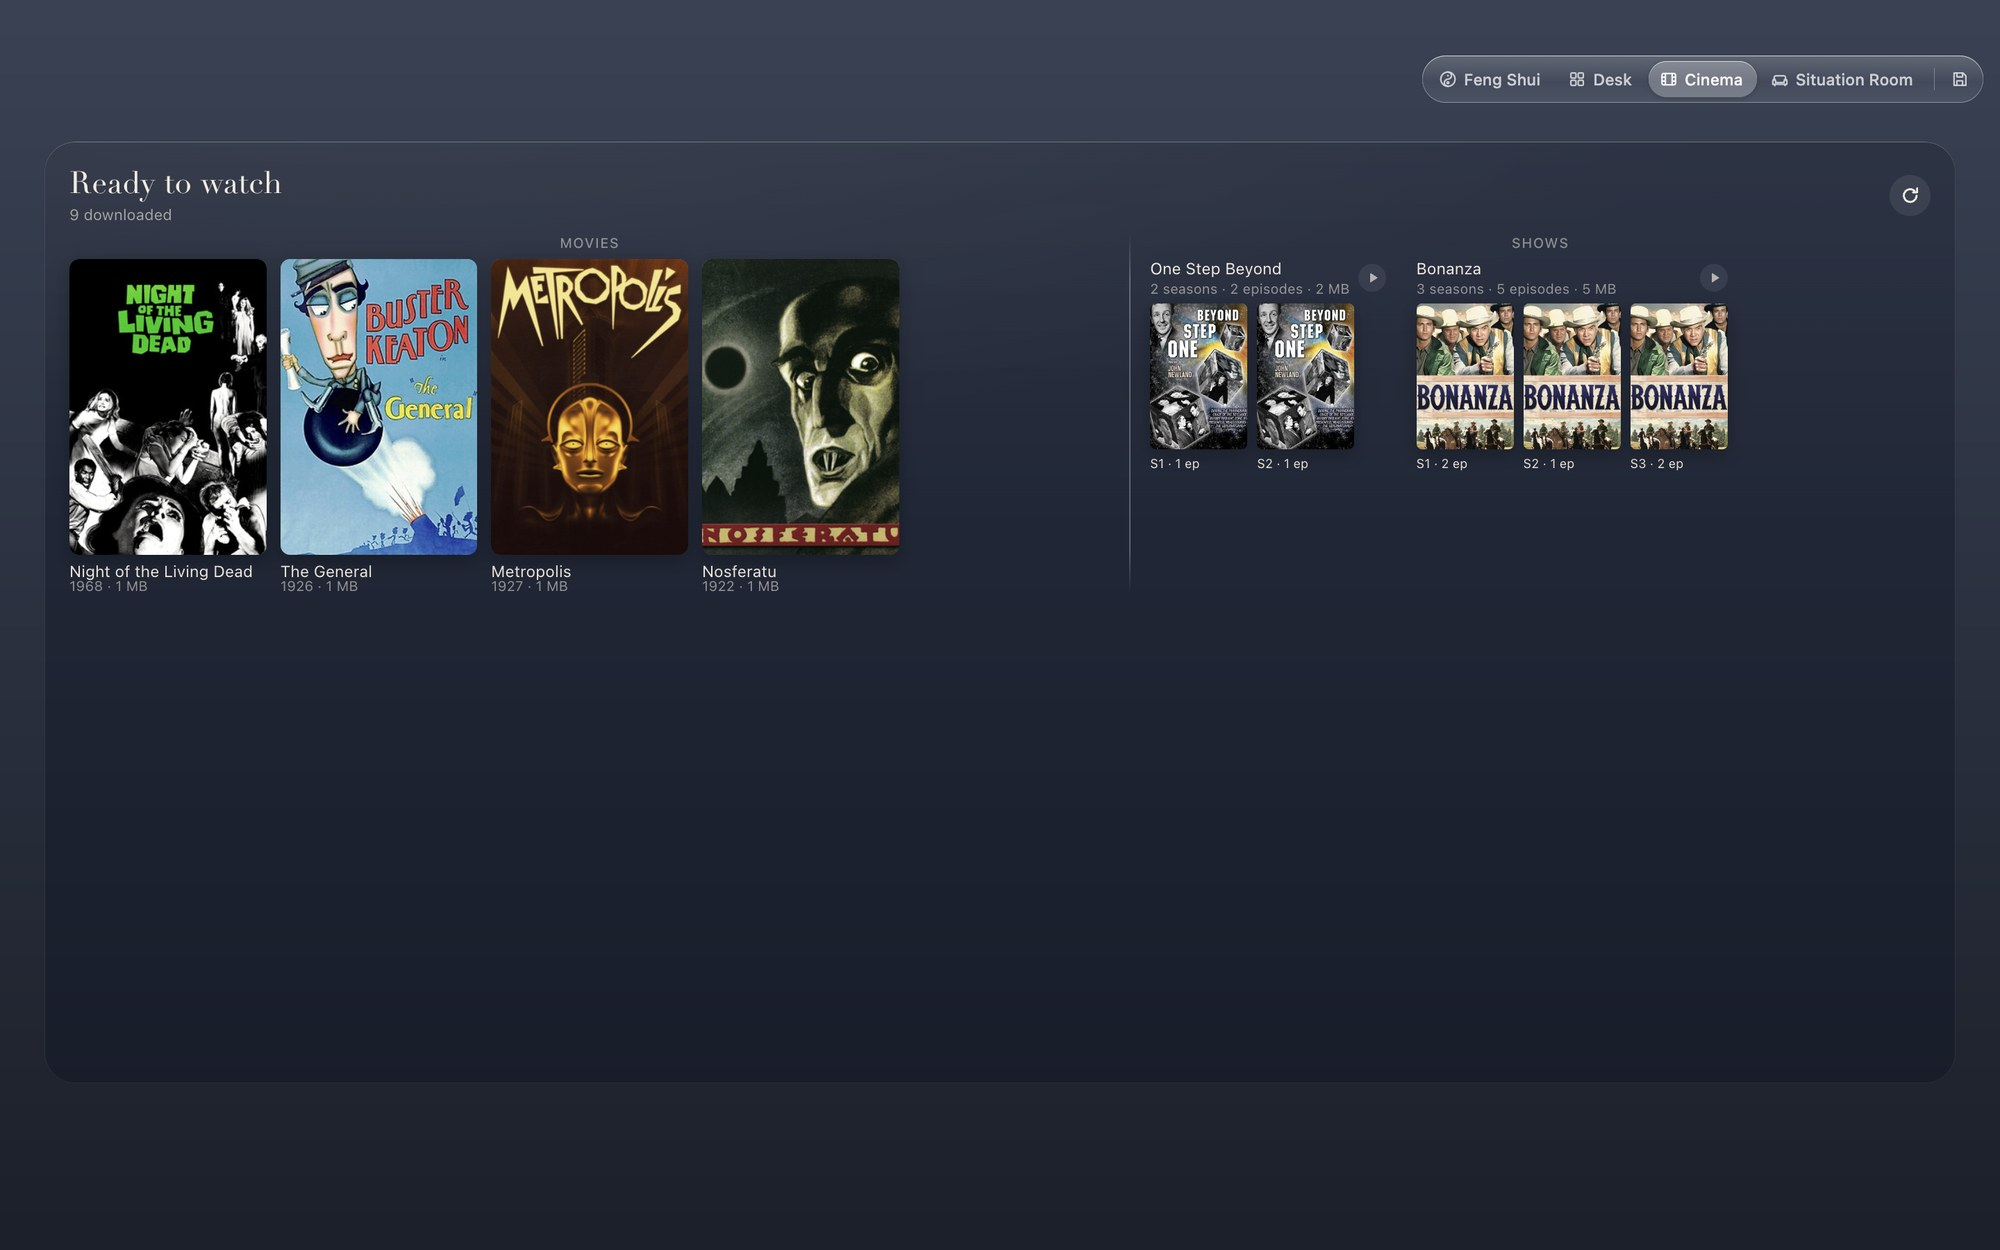
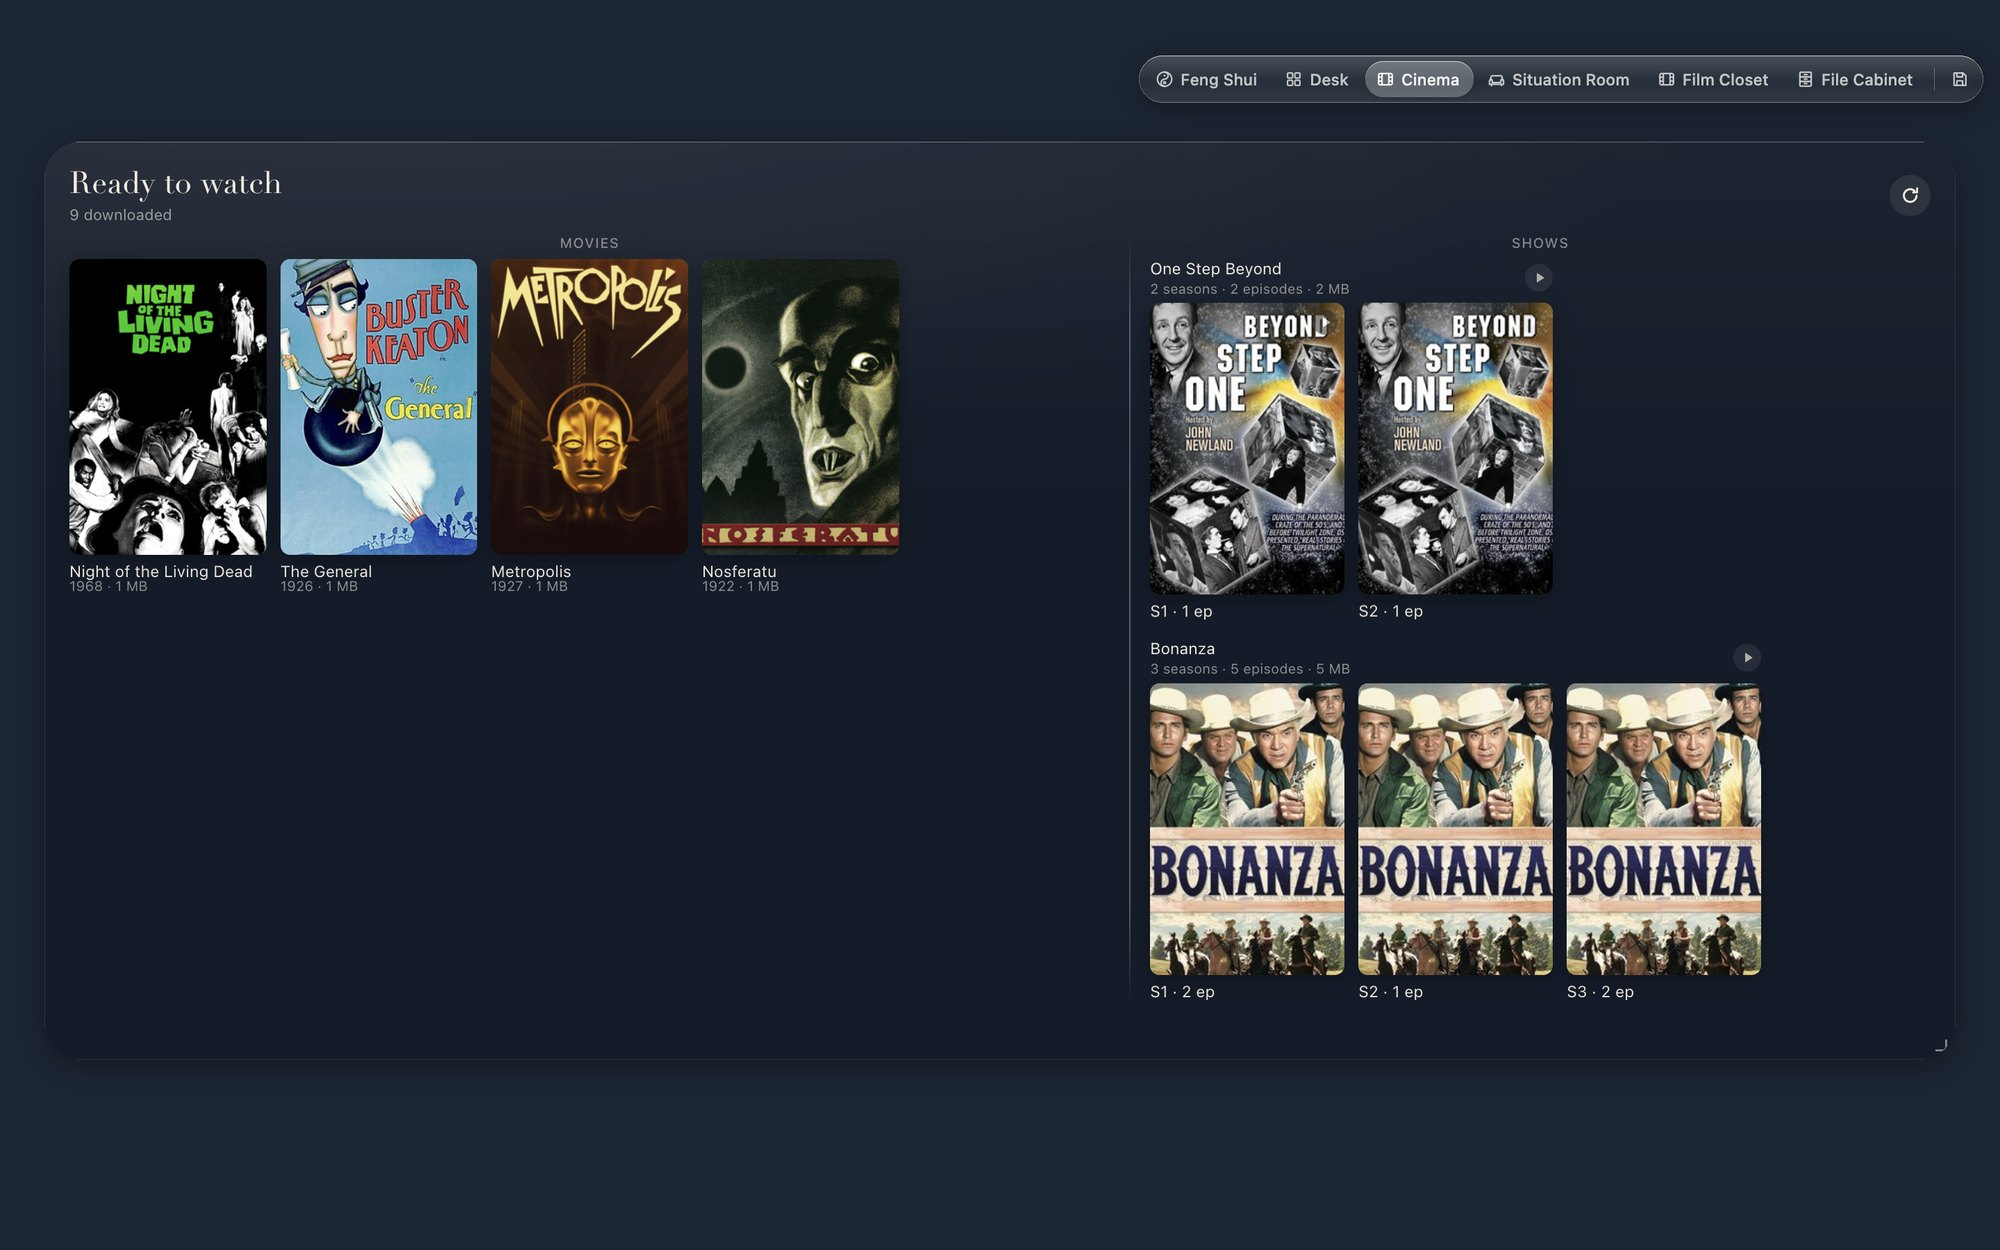
Films: show seasons at full poster size; feature the File Cabinet

Changed region(s): [[0.558, 0.1872, 0.899, 0.8112], [0.0, 0.0, 1.0, 0.3432]]

diff --git a/src/renderer/widgets/films.js b/src/renderer/widgets/films.js
@@ -67,25 +67,18 @@ const css = `
 .films .filters input { flex: 1 1 90px; }
 .films .filters input::placeholder { color: inherit; opacity: 0.5; }
 .films .filters option { color: #111; }
-/* Shows: each show's seasons together, at half the movie poster size. */
+/* Shows: each show's seasons together, at the same size as the movie posters. */
 .films .shows { display: flex; flex-wrap: wrap; align-items: flex-start; gap: 12px 22px; }
 .films .show { flex: 0 1 auto; min-width: calc(var(--poster) * 1.2); max-width: 100%; }
-.films .show .items.seasons { display: flex; flex-wrap: wrap; }
-.films .show .items.seasons .item { width: calc(var(--poster) / 2); }
+.films .show .items.seasons { display: flex; flex-wrap: wrap; gap: 12px 10px; }
+.films .show .items.seasons .item { width: var(--poster); }
 .films .show-head { display: flex; align-items: center; gap: 6px; margin-bottom: 5px; min-width: 0; }
 .films .show-t { flex: 1; min-width: 0; text-align: left; }
 .films .show-head .meta { margin-top: 1px; }
 .films .playall { flex: none; width: 20px; height: 20px; border-radius: 50%; display: grid; place-items: center; padding: 0; background: rgba(255,255,255,0.1); color: inherit; opacity: 0.7; transition: opacity 0.2s, background-color 0.2s; }
 .films .playall:hover { opacity: 1; background: rgba(255,255,255,0.18); }
 .films .playall svg { width: 9px; height: 9px; margin-left: 1px; }
-.films .items.seasons { grid-template-columns: repeat(auto-fill, minmax(calc(var(--poster) / 2), calc(var(--poster) / 2))); gap: 8px 7px; }
-.films.shelf .items.seasons .item { flex: 0 0 calc(var(--poster) / 2); }
-.films .seasons .art { border-radius: 4px; }
-.films .seasons .art .card { font-size: calc(10px * var(--scale)); padding: 4px; }
-.films .seasons .art .badge { width: 14px; height: 14px; top: 3px; right: 3px; }
-.films .seasons .art .badge svg { width: 7px; height: 7px; }
-.films .seasons .name { font-size: calc(9px * var(--scale)); letter-spacing: -0.01em; }
-.films .seasons .meta { font-size: calc(9px * var(--scale)); }
+.films.shelf .items.seasons .item { flex: 0 0 var(--poster); }
 .films.list .items.seasons { display: grid; grid-template-columns: repeat(auto-fill, minmax(120px, 1fr)); }
 .films.list .seasons .art { width: 22px; }
 .films .progress { font-size: calc(10.5px * var(--scale)); opacity: 0.6; margin: -4px 0 8px; text-align: left; line-height: 1.4; }

diff --git a/README.md b/README.md
@@ -15,8 +15,8 @@ Free and open source under the MIT licence.
 | --- | --- |
 | <img src="docs/screenshots/desk-layout.jpg" alt="A glass desk layout with clock, weather, world clock, notes and launcher"> | <img src="docs/screenshots/films-cinema.jpg" alt="The Films widget showing movies and TV seasons grouped by show"> |
 | **Desk.** Glass widgets with real macOS blur. | **Cinema.** Films, with each show's seasons gathered together. |
-| <img src="docs/screenshots/film-closet.jpg" alt="The Film Closet: a 3D wall of film spines with a poster appearing on hover"> | <img src="docs/screenshots/feng-shui-layout.jpg" alt="The Feng Shui layout"> |
-| **Film Closet.** A walk-in shelf of films; hover a spine for its poster. | **Feng Shui.** One shared liquid glass. |
+| <img src="docs/screenshots/film-closet.jpg" alt="The Film Closet: a 3D wall of film spines with a poster appearing on hover"> | <img src="docs/screenshots/file-cabinet.jpg" alt="The File Cabinet: a 90s-style file explorer showing a Downloads folder"> |
+| **Film Closet.** A walk-in shelf of films; hover a spine for its poster. | **File Cabinet.** A 90s file explorer for your Downloads. |
 | <img src="docs/screenshots/situation-room.jpg" alt="A layout with a corkboard, whiteboard and status gauges"> | <img src="docs/screenshots/about.png" alt="The About window"> |
 | **Situation Room.** Corkboard, whiteboard and gauges. | **About.** |
 
@@ -55,8 +55,8 @@ awake and open settings.
   bagua arrangement sets them in three mirrored columns with even spacing.
   Other layouts are untouched.
 - **Shows grouped in Films.** Episodes and seasons of the same show sit
-  together in order, even when they came from different folders, with smaller
-  season thumbnails beside the movie posters and a Play All button.
+  together in order, even when they came from different folders, each season
+  the same size as a movie poster, with a Play All button.
 - **Arrow keys for layouts.** Choose Switch with ← → Keys in the layout menu,
   or click the layout bar, then use ← and → to move between layouts. Esc or
   Return finishes.
@@ -99,7 +99,7 @@ Letterboxd watchlist. Episodes are grouped by show, then by season in order.
 - **Play:** click a downloaded film to open it in [VLC](https://www.videolan.org/vlc/).
   A season opens as a playlist. If VLC isn't installed, the widget says so.
 - **Downloads:** Movies, then Shows. Each show has a header with a Play All
-  button and its seasons as half-size thumbnails.
+  button and its seasons in order, at the same size as the movie posters.
 - **Sections:** show downloads, the watchlist, or both, with an optional heading,
   so one widget can be a "Ready to watch" panel and another a watchlist shelf.
 - **Watchlist:** enter your Letterboxd username in the widget's settings. The
@@ -214,6 +214,16 @@ action as Feng Shui This Layout. On the Feng Shui layout it uses the bagua
 arrangement instead: each widget is placed by its element on a 3×3 grid, with
 no widget over 22% of the screen, no more than a 2.5× size gap and Fire never
 outweighing Water, then each column becomes one even, centred stack.
+
+## File Cabinet
+
+A 90s-style file explorer for one folder, your Downloads unless you choose
+another: a folder tree, Large Icons or Details, a preview pane, search and
+Properties, with optional click sounds. Scan runs a Disk Cleanup that finds
+temporary files, leftovers, old installers, duplicates, large files and empty
+folders. Nothing is ever erased: Delete asks first (No is the default) and then
+moves the items to the Trash, and the widget can't reach anything outside its
+folder.
 
 ## Film Closet
 
